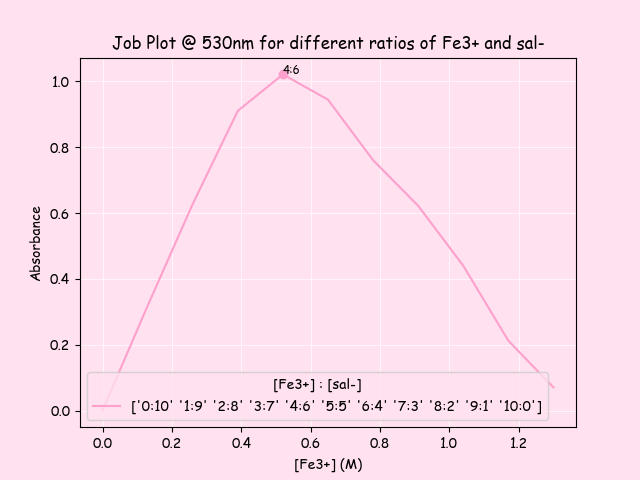
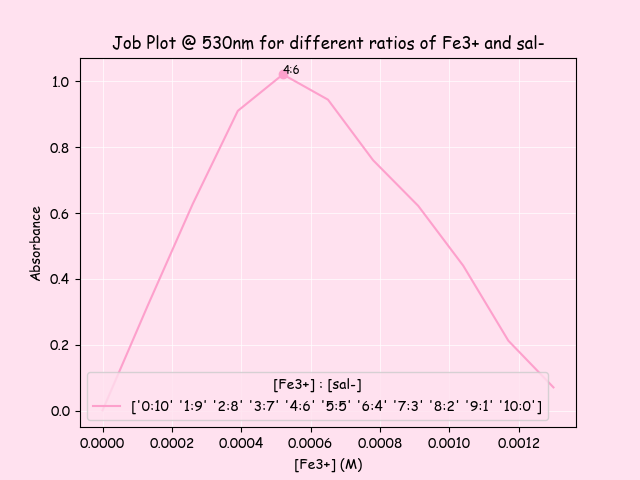
fuck

diff --git a/part2.py b/part2.py
@@ -48,7 +48,7 @@ prop = font_manager.FontProperties(fname=font_path)
 part2_i_labels = ["0:10","","1:9","","2:8","","3:7","","4:6","","5:5","","6:4","","7:3","","8:2","","9:1","","10:0","","blank", ""]
 
 #part2 ii labels
-part2_ii_labels = ["1.3 M","","1.04 M","","0.78 M","","0.52 M","","0.26 M","","0.00 M", ""]
+part2_ii_labels = ["1.3 mM","","1.04 mM","","0.78 mM","","0.52 mM","","0.26 mM","","0.00 mM", ""]
 #fuck off data labels
 part2_i = part2_i[2:,:]
 part2_ii = part2_ii[2:,:]
@@ -154,8 +154,8 @@ sal_conc = []
 data_labels = []
 while i < len(job_abs):
     label = part2_i_labels[i * 2]
-    x = 1.3 * i / 10
-    sal = 1.3 - x
+    x = (1.3 * (10 ** (-3))) * i / 10
+    sal = (1.3 * (10 ** (-3))) - x
     x = np.array([x])
     sal = np.array([sal])
     label = np.array([label])
@@ -218,7 +218,7 @@ while i < len(absorbance):
     if i == 5:
         x = 0
     else:
-        x = 1.3 * (2 * (i+1)) / 10
+        x = (1.3 * (10 ** (-3))) * (2 * (i+1)) / 10
     x = np.array([x])
     label = np.array([label])
     x_data_ii = np.append(x_data_ii, x, axis = 0)
@@ -250,7 +250,7 @@ x_data_4a = job_abs[1:-1] #remove abs data for zero conc
 yaxis_4a = []
 xaxis_4a = x_data_4a
 for concentration in conc_data_4a:
-    y4a = np.array([conc_data_4a[0] * (1.3 - conc_data_4a[0]) / x_data_4a[i]])
+    y4a = np.array([conc_data_4a[0] * ((1.3 * (10 ** (-3))) - conc_data_4a[0]) / x_data_4a[i]])
     yaxis_4a = np.append(yaxis_4a, y4a, axis = 0)
     i += 1
 #sort data
@@ -278,7 +278,7 @@ R = 8.3145 #J mol^-1 K^-1
 T = 298.15 # K (assume 25 deg)
 ext_coeff_a =  1 / np.sqrt(- m)
 #use point (0, y-intercept) to get values along line of best fit
-stab_const_a = 1 / (1.3 - (ext_coeff_a * (yaxis_4a[0] + (xaxis_4a[0] / (ext_coeff_a ** 2)))))
+stab_const_a = 1 / ((1.3 * (10 ** (-3))) - (ext_coeff_a * (yaxis_4a[0] + (xaxis_4a[0] / (ext_coeff_a ** 2)))))
 Ko_a = 1 * stab_const_a #see eqn 20
 dGo_a = - R * T * np.log(Ko_a)
 print(f"\nQ4\na)\nMethod A:\nExtinction coefficient: {ext_coeff_a} M^(-1)cm^(-1)\nStability constant: {stab_const_a} M^(-1)\ndG^o = {dGo_a} Jmol^(-1)\n")
